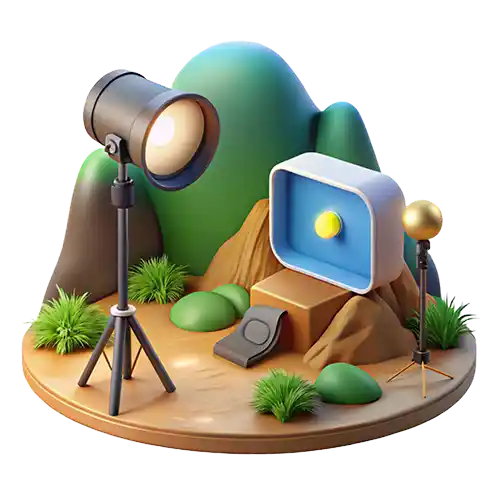
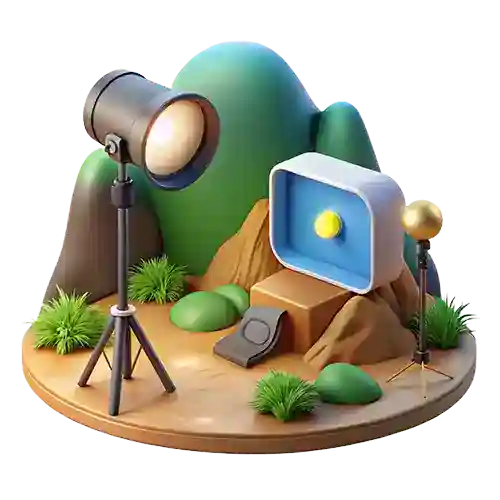
joo

diff --git a/index.html b/index.html
@@ -71,7 +71,7 @@ height="0" width="0" style="display:none;visibility:hidden"></iframe></noscript>
         <div class="left-header">
                             
             <div class="image" id="image"> 
-                <img src="img/Aimage.png" id="main-image" alt="AI-Powered Digital Media Creation for Businesses.">
+                <img src="img/Aimage2.png" id="main-image" alt="AI-Powered Digital Media Creation for Businesses.">
             </div>
         </div>
         <div class="right-header">
